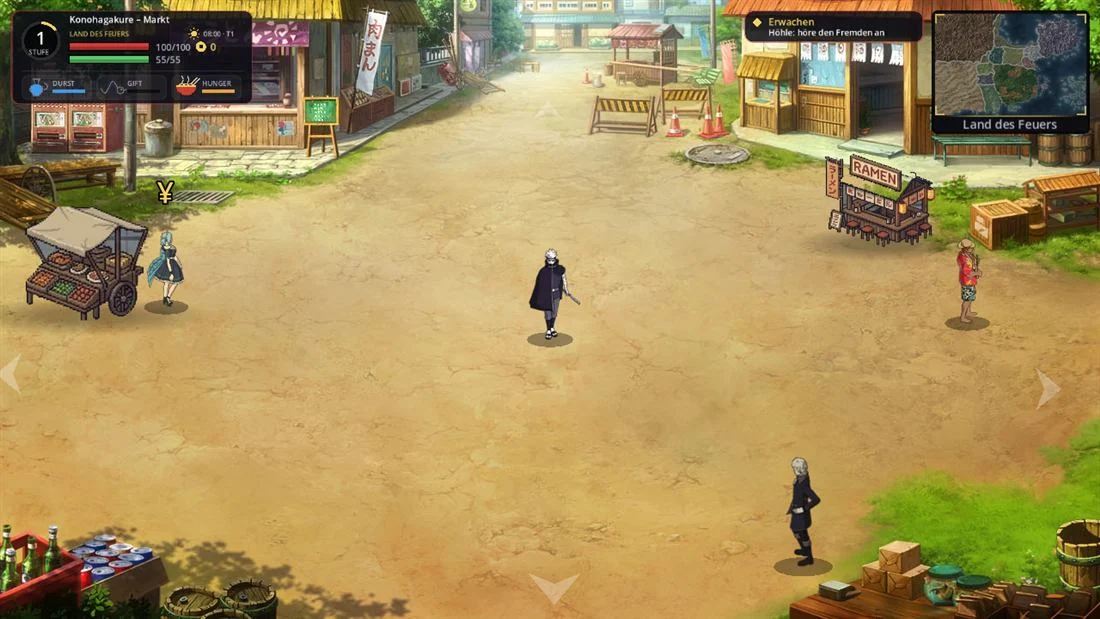
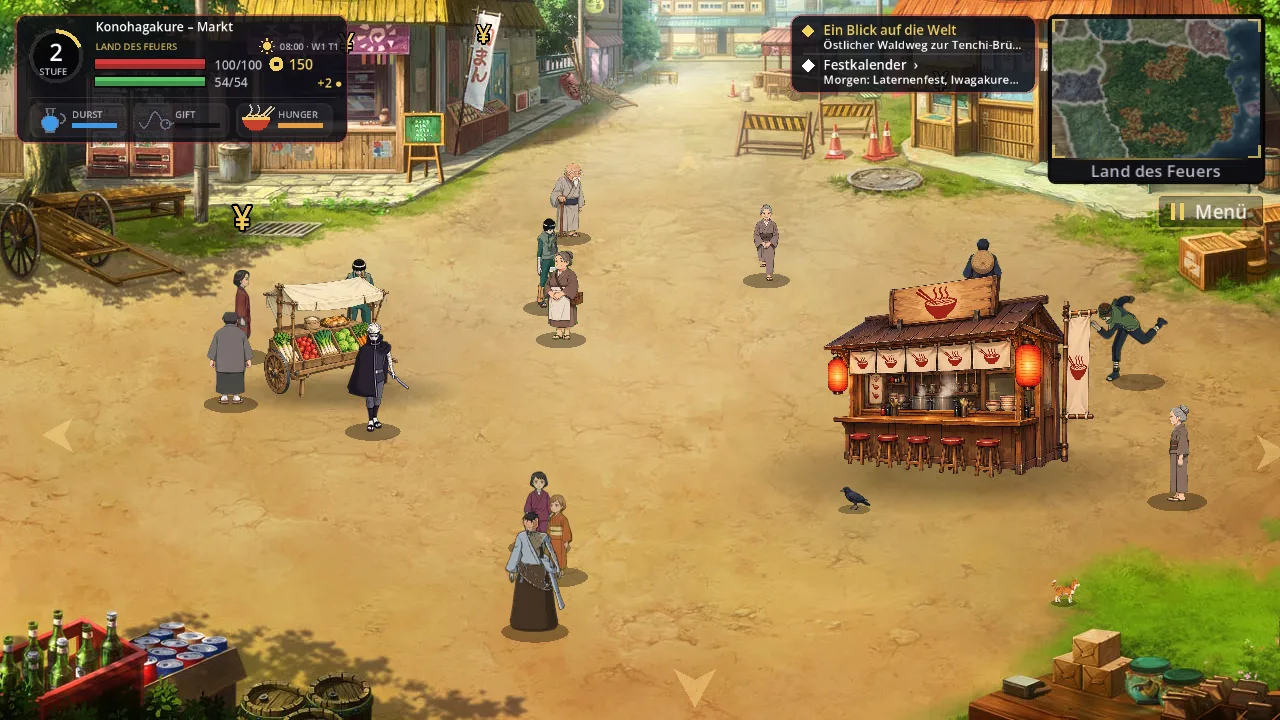
Website: alte Spielszenen (14./16.10.) durch Aufnahmen vom 31.10.–05.11. ersetzt
36 neue Spielszenen in der Vorschau, 6 Feature-Kacheln mit neuen Bildern,
zwei veraltete Bosskampf-Einträge entfernt.

Claude-Session: https://claude.ai/code/session_01DqbyEvNSt55vXj6fPZtjoJ

diff --git a/docs/index.html b/docs/index.html
@@ -88,16 +88,16 @@
    <div class="feature-grid">
     <article class="feature"><img src="./media/figuren/boss-naruto-fuchs.webp" alt="" loading="lazy" width="640" height="360"><div><h3>Bosse mit Phasen</h3><p>Bosse verwandeln sich mitten im Kampf, und du siehst es: Chakramantel, Bijū-Gestalt, neue Helfer, ein anderer Himmel.</p></div></article>
     <article class="feature"><img src="./media/figuren/boss-yugito-2.webp" alt="" loading="lazy" width="640" height="360"><div><h3>Alle neun Bijū</h3><p>Die Jinchūriki werden zu ihren Bijū, in echter Riesengröße weit über den Menschen.</p></div></article>
-    <article class="feature"><img src="./media/figuren/szene-k5-ueberfall.webp" alt="" loading="lazy" width="640" height="360"><div><h3>Zufallsbegegnungen</h3><p>Über 30 Arten von Überfällen, Hinterhalten und Verletzten am Weg. Grund, Zeitpunkt und Ausgang sind jedes Mal anders.</p></div></article>
-    <article class="feature"><img src="./media/figuren/szene-kampf-hidan.webp" alt="" loading="lazy" width="640" height="360"><div><h3>Akatsuki an deiner Seite</h3><p>Kisame, Itachi, Hidan, Kakuzu, Deidara und Konan begleiten dich mit eigenem Wesen. Wer stirbt, fehlt für immer.</p></div></article>
+    <article class="feature"><img src="./media/figuren/szene-kampf-reaktion.webp" alt="" loading="lazy" width="640" height="360"><div><h3>Zufallsbegegnungen</h3><p>Über 30 Arten von Überfällen, Hinterhalten und Verletzten am Weg. Grund, Zeitpunkt und Ausgang sind jedes Mal anders.</p></div></article>
+    <article class="feature"><img src="./media/figuren/szene-kampf-kopfgeld.webp" alt="" loading="lazy" width="640" height="360"><div><h3>Akatsuki an deiner Seite</h3><p>Kisame, Itachi, Hidan, Kakuzu, Deidara und Konan begleiten dich mit eigenem Wesen. Wer stirbt, fehlt für immer.</p></div></article>
     <article class="feature"><img src="./media/figuren/welt-feuer-1.webp" alt="" loading="lazy" width="640" height="360"><div><h3>Elf Weltkarten</h3><p>Frei laufen über Wiesen, Ufer und Sand. Höhlen, Ruinen und Haine führen in eigene Orte.</p></div></article>
     <article class="feature"><img src="./media/figuren/szene-dorf-markt.webp" alt="" loading="lazy" width="640" height="360"><div><h3>Dörfer, die leben</h3><p>14 Dörfer und Städte. Bewohner mit Tagesablauf, Läden mit Öffnungszeiten und Klatsch, der von Dorf zu Dorf wandert.</p></div></article>
-    <article class="feature"><img src="./media/figuren/szene-fest-shimo.webp" alt="" loading="lazy" width="640" height="360"><div><h3>Feste, Jahrmarkt und Untergrund</h3><p>Laternenfeste, Wanderjahrmarkt mit Minispielen, Wettangeln und Turniere im Untergrund nach Kalender.</p></div></article>
+    <article class="feature"><img src="./media/figuren/szene-jahrmarkt-platz.webp" alt="" loading="lazy" width="640" height="360"><div><h3>Feste, Jahrmarkt und Untergrund</h3><p>Laternenfeste, Wanderjahrmarkt mit Minispielen, Wettangeln und Turniere im Untergrund nach Kalender.</p></div></article>
     <article class="feature"><img src="./media/figuren/szene-versorgung-feuer.webp" alt="" loading="lazy" width="640" height="360"><div><h3>Sammeln, Jagen, Kochen</h3><p>Kräuter, Pilze und Wild, 21 Fischarten, 42 Rezepte. Hunger, Durst und Gift wollen versorgt sein.</p></div></article>
-    <article class="feature"><img src="./media/figuren/szene-wetter-gewitter.webp" alt="" loading="lazy" width="640" height="360"><div><h3>Wetter und Licht</h3><p>Regen, Nebel, Gewitter, Schnee- und Sandsturm. Das Licht folgt der Spieluhr.</p></div></article>
+    <article class="feature"><img src="./media/figuren/szene-wetter-regen.webp" alt="" loading="lazy" width="640" height="360"><div><h3>Wetter und Licht</h3><p>Regen, Nebel, Gewitter, Schnee- und Sandsturm. Das Licht folgt der Spieluhr.</p></div></article>
     <article class="feature"><img src="./media/figuren/szene-geheimgang.webp" alt="" loading="lazy" width="640" height="360"><div><h3>Dungeons und Geheimgänge</h3><p>15 Dungeons mit 40 gemalten Räumen, Zwischen- und Endboss. Jeder Durchlauf ist anders.</p></div></article>
-    <article class="feature"><img src="./media/figuren/szene-fahndung-jagd.webp" alt="" loading="lazy" width="640" height="360"><div><h3>Fahndung und ANBU</h3><p>Zu viele Taten? Dann kommst du nur mit Maske ins Dorf, und die ANBU-Hauptleute jagen dich.</p></div></article>
-    <article class="feature"><img src="./media/figuren/szene-lager-einrichtung.webp" alt="" loading="lazy" width="640" height="360"><div><h3>Hauptlager und Koop</h3><p>Im Versteck kochst du, übst gegen Mitglieder und holst neue Aufträge. Zu zweit spielt ihr im selben WLAN die Geschichte gemeinsam.</p></div></article>
+    <article class="feature"><img src="./media/figuren/szene-untergrund-informanten.webp" alt="" loading="lazy" width="640" height="360"><div><h3>Fahndung und ANBU</h3><p>Zu viele Taten? Dann kommst du nur mit Maske ins Dorf, und die ANBU-Hauptleute jagen dich.</p></div></article>
+    <article class="feature"><img src="./media/figuren/szene-zetsu-wueste.webp" alt="" loading="lazy" width="640" height="360"><div><h3>Hauptlager und Koop</h3><p>Im Versteck kochst du, übst gegen Mitglieder und holst neue Aufträge. Zu zweit spielt ihr im selben WLAN die Geschichte gemeinsam.</p></div></article>
    </div>
   </section>
   <section id="roadmap" class="roadmap">
